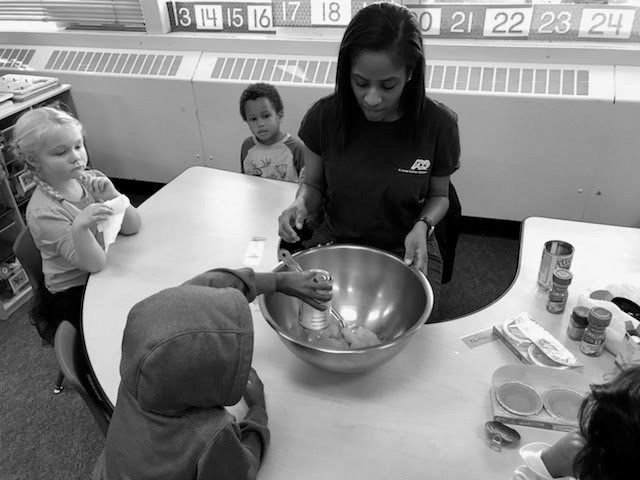
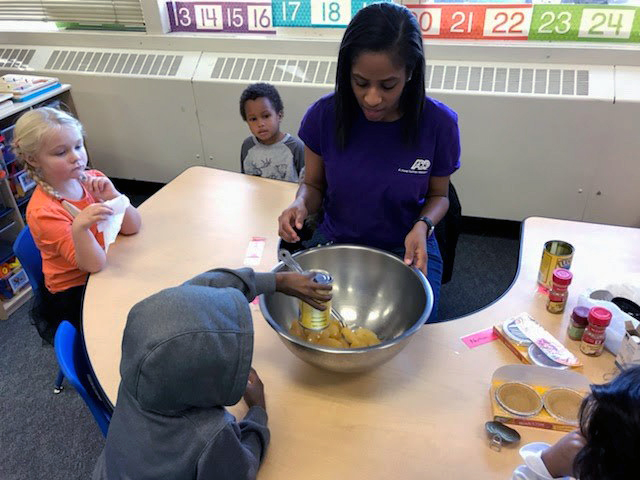
Changing pictures from b&w to coto color, renaming community service to outreach, and removing extra spacing in about section

diff --git a/home.html b/home.html
@@ -126,9 +126,9 @@
                             <div class="testimonial__text">
                                 <h3>About</h3>
                                 <blockquote>
-                                    <p>From a semi-small town, I am Portsmouth, VA born and raised. I come from a very large family where I was the first to graduate from a 4-year college program. I stand on the shoulders of a strong support system; one that paved the way for me to attain all of my life goals, including applying to law school.</p> 
+                                    <p style="margin-bottom: 0;">From a semi-small town, I am Portsmouth, VA born and raised. I come from a very large family where I was the first to graduate from a 4-year college program. I stand on the shoulders of a strong support system; one that paved the way for me to attain all of my life goals, including applying to law school.</p> 
                                     <p>At 32, I am a serious candidate who brings more than professional accomplishments to the table and classroom; I also bring life experience and perspective. Hard work, integrity and service are engraved into the core of my being. I apply them in everything that I do as a wife, mother and servant.</p>
-                                     <p>Whether I am in the living room or boardroom, who I am are one in the same. If asked, friends, family and colleagues would describe me as compassionate, loyal, trustworthy, hard-working, reliable, calculated and tough but fair. My loving family, serving others, thinking through challenging situations and engaging in meaningful conversations make my life complete.</p>
+                                    <p>Whether I am in the living room or boardroom, who I am are one in the same. If asked, friends, family and colleagues would describe me as compassionate, loyal, trustworthy, hard-working, reliable, calculated and tough but fair. My loving family, serving others, thinking through challenging situations and engaging in meaningful conversations make my life complete.</p>
                                     <p>Thank you for your consideration. It is with humility and excitement that I embark on this new journey into a career in law.</p> 
                                 </blockquote>
                                 <h5>&mdash; Anika Marie</h5>
@@ -241,7 +241,7 @@
                                     </a>
                                 </div>
                                 <!--end item-->
-                                <div class="col-sm-12 masonry__item" data-masonry-filter="community servant">
+                                <div class="col-sm-12 masonry__item" data-masonry-filter="outreach">
                                     <a href="#">
                                         <div class="card card--horizontal card-5">
                                             <div class="card__image col-sm-7 col-md-8">
@@ -264,12 +264,12 @@
                                     </a>
                                 </div>
                                 <!--end item-->
-                                <div class="col-sm-12 masonry__item" data-masonry-filter="community servant">
+                                <div class="col-sm-12 masonry__item" data-masonry-filter="outreach">
                                     <a href="#">
                                         <div class="card card--horizontal card-5">
                                             <div class="card__image col-sm-7 col-md-8">
                                                 <div class="background-image-holder">
-                                                    <img alt="Pic" src="img/mentorship.jpg" />
+                                                    <img alt="Pic" src="img/chosen-vessels.jpg" />
                                                 </div>
                                             </div>
                                             <div class="card__body col-sm-5 col-md-4 boxed boxed--lg bg--white">
@@ -287,7 +287,7 @@
                                     </a>
                                 </div>
                                 <!--end item-->
-                                <div class="col-sm-12 masonry__item" data-masonry-filter="community servant">
+                                <div class="col-sm-12 masonry__item" data-masonry-filter="outreach">
                                     <a href="#">
                                         <div class="card card--horizontal card-5">
                                             <div class="card__image col-sm-7 col-md-8">
@@ -504,7 +504,7 @@
                     <div class="row">
                         <div class="col-sm-12 text-center">
                             <h4>Time is wasting!</h4>
-                            <a class="btn btn--sm" href="malito:anika@anika-marie.com">
+                            <a class="btn btn--sm" href="mailto:anika@anika-marie.com">
                                 <span class="btn__text">
                                     Reach Me
                                 </span>
